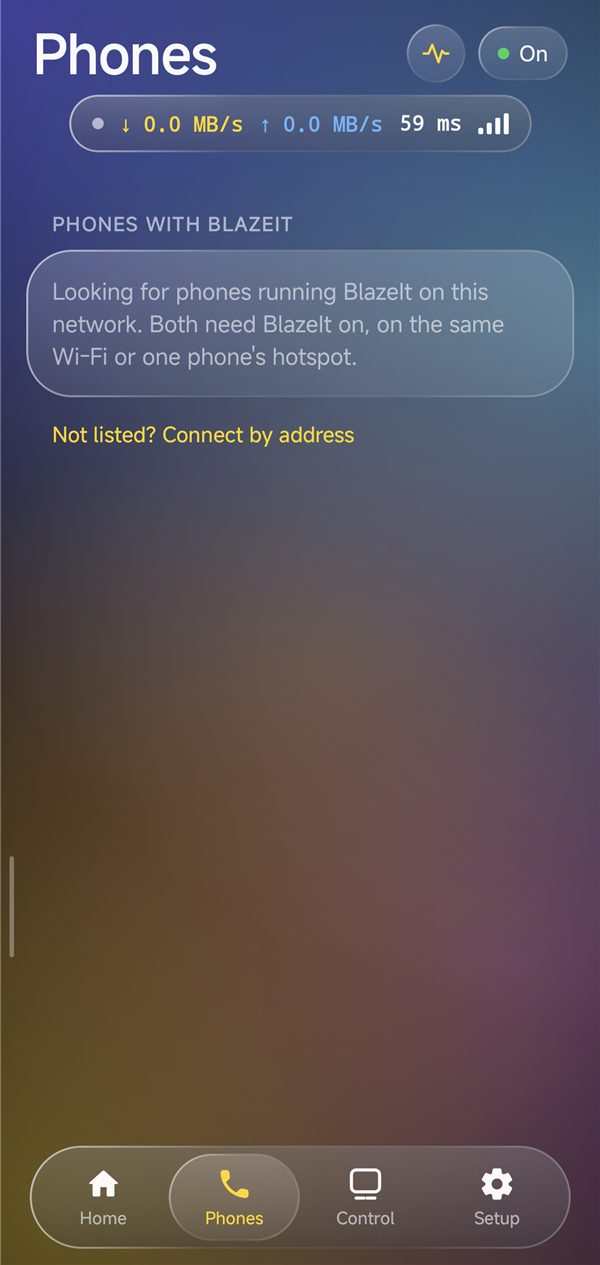
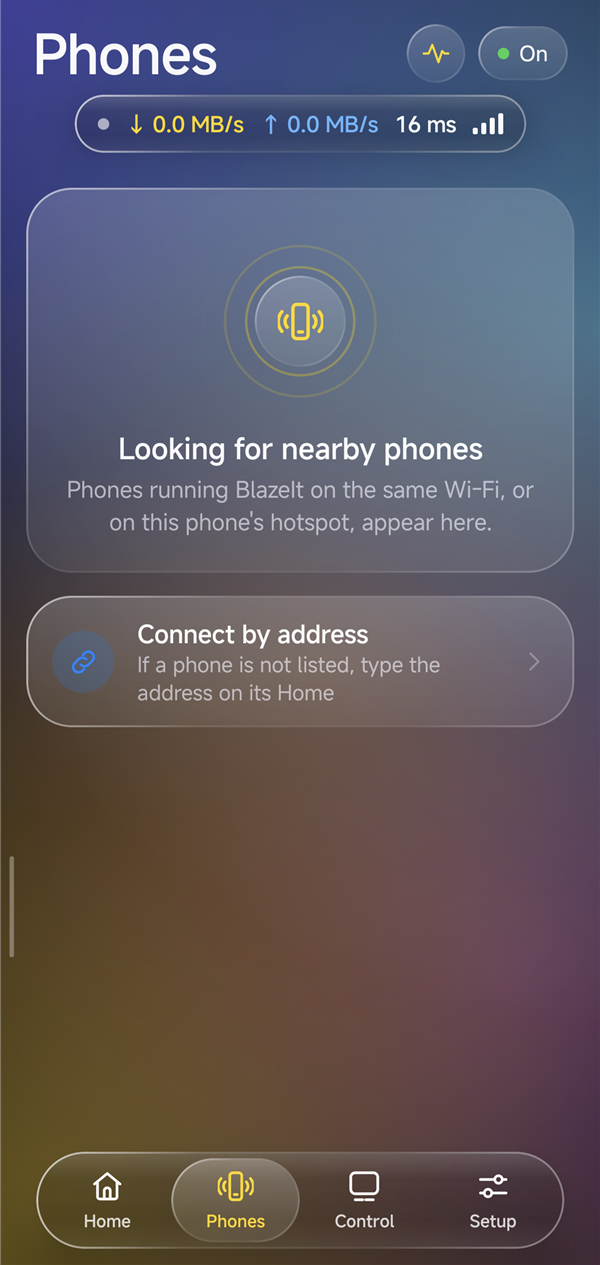
README: liquid glass, Control shot back; version 0.2.1

diff --git a/README.md b/README.md
@@ -51,12 +51,19 @@ blocks without ever being held in memory. A 4 GB video crosses in about a minute
 ### 1. Liquid Glass, on both sides
 
 The app and the page share one look: sheets of glass over a softly lit backdrop, a rim
-that catches the light, capsule buttons, and the brand yellow as the only accent. On the
-phone the tab bar and the monitor are real blurred glass floating over the content.
+that catches the light, capsule buttons, one line-icon set, and the brand yellow as the
+only accent.
 
-| Home | Monitor | Phones |
-| --- | --- | --- |
-| <img src="docs/images/phone-home.png" width="190"> | <img src="docs/images/phone-monitor.png" width="190"> | <img src="docs/images/phone-phones.png" width="190"> |
+On the phone, the tab bar and the monitor are **liquid glass, not frosted glass**. The
+screen is recorded every frame and drawn again under them through a lens shader (AGSL,
+Android 13+). The middle stays clear. Near the rounded edge the content bends inwards,
+the way it does through a thick drop of glass, with a faint colour fringe where the bend
+is strongest. A specular rim and a sheen along the top sit on the surface. Older phones
+get a blurred glass instead.
+
+| Home | Monitor | Phones | Control |
+| --- | --- | --- | --- |
+| <img src="docs/images/phone-home.png" width="190"> | <img src="docs/images/phone-monitor.png" width="190"> | <img src="docs/images/phone-phones.png" width="190"> | <img src="docs/images/phone-control.png" width="190"> |
 
 ### 2. Connect a computer (approve on the phone)
 
@@ -125,7 +132,8 @@ keyboard typing straight into the laptop.
 **Keyboard**, **Ctrl**, **Win** and **Esc** sit in a row that rides on top of the phone's
 keyboard when it opens. Ctrl and Win apply to the next key or click, so Ctrl then C
 copies. Clicks happen on the pad itself: tap to click, tap with two fingers to right-click,
-tap then drag to hold. The speed chip in the pad's corner cycles Slow, Normal and Fast.
+tap then drag to hold. The dial in the pad's corner cycles the pointer through Slow, Normal
+and Fast.
 
 
 ### 7. The laptop helper (one file, nothing installed)
